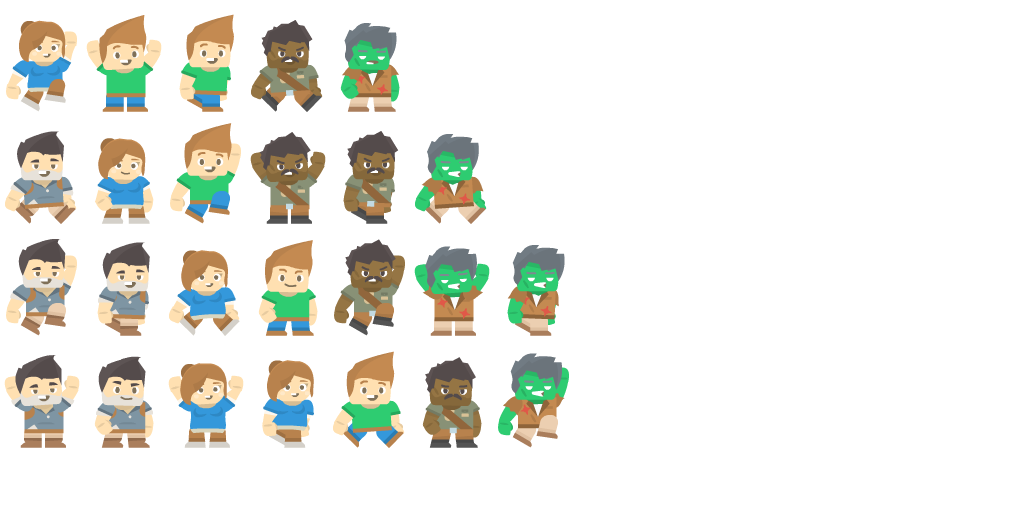
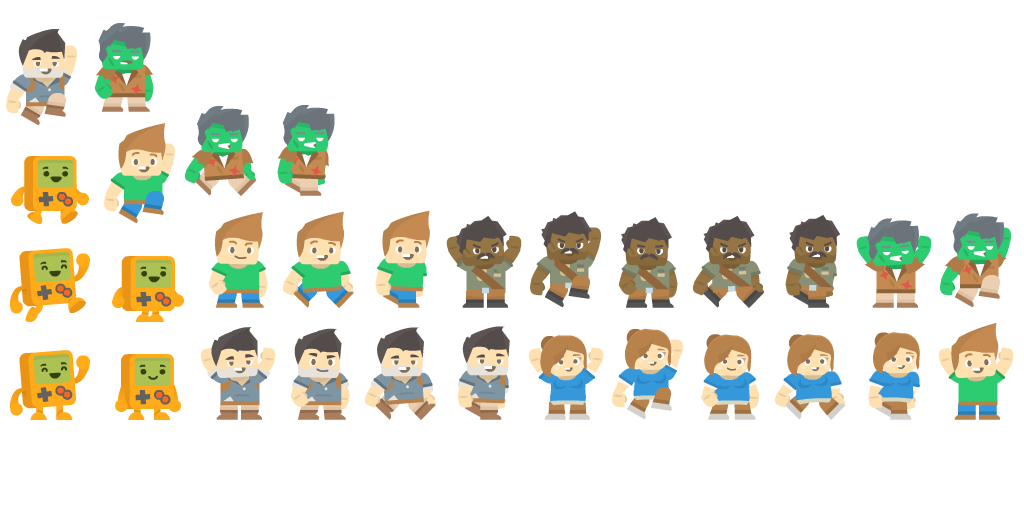
player can't play nextMap before finishing earlier one

diff --git a/core/src/radoslaw/slowinski/ares/controls/LevelDialog.java b/core/src/radoslaw/slowinski/ares/controls/LevelDialog.java
@@ -2,7 +2,10 @@ package radoslaw.slowinski.ares.controls;
 
 import com.badlogic.gdx.graphics.Color;
 import com.badlogic.gdx.scenes.scene2d.InputEvent;
-import com.badlogic.gdx.scenes.scene2d.ui.*;
+import com.badlogic.gdx.scenes.scene2d.ui.Image;
+import com.badlogic.gdx.scenes.scene2d.ui.Label;
+import com.badlogic.gdx.scenes.scene2d.ui.Stack;
+import com.badlogic.gdx.scenes.scene2d.ui.Table;
 import com.badlogic.gdx.scenes.scene2d.utils.ClickListener;
 import radoslaw.slowinski.ares.RushGame;
 import radoslaw.slowinski.ares.handlers.AssetHandler;
@@ -17,10 +20,13 @@ public class LevelDialog {
     private RushGame myGame;
     private Stack stack;
     private MapLevels mapLevel;
+    private boolean canBePlayed;
+    private BadgeTypes badgeType;
 
-    public LevelDialog(RushGame myGame,MapLevels mapLevel) {
+    public LevelDialog(RushGame myGame, MapLevels mapLevel, boolean canBePlayed) {
         this.myGame = myGame;
         this.mapLevel = mapLevel;
+        this.canBePlayed = canBePlayed;
         init();
     }
 
@@ -30,7 +36,7 @@ public class LevelDialog {
 
     private void init() {
         stack = new Stack();
-        stack.setSize(100,50);
+        stack.setSize(100, 50);
         stack.add(getBackground());
         stack.add(getForeground());
         stack.addListener(getListener());
@@ -39,30 +45,38 @@ public class LevelDialog {
     private Table getForeground() {
         Table layer = new Table();
         layer.center().top();
-        layer.setSize(100,30);
-        layer.add(getBagde()).row();
-        layer.add(getLabel(mapLevel.getMapLevel(),Color.FIREBRICK));
+        layer.setSize(100, 30);
+        layer.add(getBadge()).row();
+        if (!canBePlayed) {
+         Image key = new Image(AssetHandler.instance.items.key);
+         key.setScale(0.7f);
+         key.setOrigin(key.getWidth()/2,key.getHeight());
+            layer.add(key);
+        }
+        else
+            layer.add(getLabel(mapLevel.getMapLevel(), Color.FIREBRICK));
         return layer;
     }
 
-    private Image getBagde() {
+    private Image getBadge() {
         Image img;
-        if(UserDataHandler.instance.getBadgeType(mapLevel).equals(BadgeTypes.GOLD)){
+        if (UserDataHandler.instance.getBadgeType(mapLevel).equals(BadgeTypes.GOLD)) {
             img = new Image(AssetHandler.instance.items.goldStar);
-        }
-        else if(UserDataHandler.instance.getBadgeType(mapLevel).equals(BadgeTypes.SILVER)){
+            badgeType = BadgeTypes.GOLD;
+        } else if (UserDataHandler.instance.getBadgeType(mapLevel).equals(BadgeTypes.SILVER)) {
             img = new Image(AssetHandler.instance.items.silverStar);
-        }
-        else if(UserDataHandler.instance.getBadgeType(mapLevel).equals(BadgeTypes.BRONZE)){
+            badgeType = BadgeTypes.SILVER;
+        } else if (UserDataHandler.instance.getBadgeType(mapLevel).equals(BadgeTypes.BRONZE)) {
             img = new Image(AssetHandler.instance.items.bronzeStar);
-        }
-        else {
+            badgeType = BadgeTypes.BRONZE;
+        } else {
             img = new Image(AssetHandler.instance.items.bronzeStar);
             img.setVisible(false);
+            badgeType = BadgeTypes.NONE;
         }
 
         img.setScale(0.5f);
-        img.setOrigin(img.getWidth()/2,img.getHeight()/2);
+        img.setOrigin(img.getWidth() / 2, img.getHeight() / 2);
         return img;
     }
 
@@ -72,10 +86,12 @@ public class LevelDialog {
     }
 
     private ClickListener getListener() {
-        return new ClickListener(){
+        return new ClickListener() {
             @Override
             public boolean touchDown(InputEvent event, float x, float y, int pointer, int button) {
-                myGame.setGameScreen(mapLevel);
+                if (canBePlayed) {
+                    myGame.setGameScreen(mapLevel);
+                }
                 return super.touchDown(event, x, y, pointer, button);
             }
         };
@@ -93,5 +109,9 @@ public class LevelDialog {
         Image emptyColumn = new Image(AssetHandler.instance.blocks.blue);
         emptyColumn.setVisible(false);
         return emptyColumn;
+    }
+
+    public BadgeTypes getBadgeType() {
+        return badgeType;
     }
 }

diff --git a/core/src/radoslaw/slowinski/ares/screens/menu/SelectLevelScreen.java b/core/src/radoslaw/slowinski/ares/screens/menu/SelectLevelScreen.java
@@ -2,11 +2,15 @@ package radoslaw.slowinski.ares.screens.menu;
 
 import com.badlogic.gdx.Gdx;
 import com.badlogic.gdx.scenes.scene2d.Stage;
-import com.badlogic.gdx.scenes.scene2d.ui.Table;
+import com.badlogic.gdx.scenes.scene2d.ui.*;
 import com.badlogic.gdx.utils.viewport.StretchViewport;
 import radoslaw.slowinski.ares.RushGame;
+import radoslaw.slowinski.ares.controls.BackToMenuButton;
 import radoslaw.slowinski.ares.controls.LevelDialog;
+import radoslaw.slowinski.ares.controls.VScrollPane;
+import radoslaw.slowinski.ares.handlers.AssetHandler;
 import radoslaw.slowinski.ares.screens.AbstractGameScreen;
+import radoslaw.slowinski.ares.utils.BadgeTypes;
 import radoslaw.slowinski.ares.utils.Constant;
 import radoslaw.slowinski.ares.utils.GamePreferences;
 import radoslaw.slowinski.ares.utils.MapLevels;
@@ -17,11 +21,19 @@ import radoslaw.slowinski.ares.utils.MapLevels;
 public class SelectLevelScreen extends AbstractGameScreen {
     private RushGame myGame;
     private Stage stage;
+    private BackToMenuButton backButton;
+    private LevelDialog[] levels;
 
-    public SelectLevelScreen(RushGame myGame){
+    public SelectLevelScreen(RushGame myGame) {
         super();
         this.myGame = myGame;
+        init();
     }
+
+    private void init() {
+        backButton = new BackToMenuButton(myGame);
+    }
+
 
     @Override
     public void render(float delta) {
@@ -32,21 +44,58 @@ public class SelectLevelScreen extends AbstractGameScreen {
     }
 
     private void rebuildStage() {
+
+        Stack stack = new Stack(getLevelDialogs(), getButtonContainer());
+        stack.setSize(Constant.GAME_WIDTH, Constant.GAME_HEIGHT);
+
+        stage.addActor(stack);
+    }
+
+    private Container<Button> getButtonContainer() {
+        Container<Button> backContainer = new Container<Button>(backButton.getButton());
+        backContainer.top().right();
+        return backContainer;
+    }
+
+    private VScrollPane getLevelDialogs() {
+        return new VScrollPane(getLevelTable());
+    }
+
+    private Table getLevelTable() {
+        setLevels();
         Table layer = new Table();
-        layer.setSize(Constant.GAME_WIDTH,Constant.GAME_HEIGHT);
-        layer.top().center();
+        layer.setSize(Constant.GAME_WIDTH, Constant.GAME_HEIGHT);
 
-        layer.add(new LevelDialog(myGame,MapLevels.FREE_RUN).getStack()).row();
-        layer.add(new LevelDialog(myGame,MapLevels.LEVEL1).getStack());
-        layer.add(new LevelDialog(myGame,MapLevels.LEVEL2).getStack()).row();
-        layer.add(new LevelDialog(myGame,MapLevels.LEVEL3).getStack());
-        layer.add(new LevelDialog(myGame,MapLevels.LEVEL4).getStack());
-        layer.add(new LevelDialog(myGame,MapLevels.LEVEL5).getStack()).row();
-        layer.add(new LevelDialog(myGame,MapLevels.LEVEL6).getStack());
-        layer.add(new LevelDialog(myGame,MapLevels.LEVEL7).getStack());
-        layer.add(new LevelDialog(myGame,MapLevels.LEVEL8).getStack()).row();
+        layer.add(getEmptyColumn());
+        layer.add(getEmptyColumn());
+        layer.add(levels[1].getStack()).row();
+        layer.add(getEmptyColumn()).row();
+        for (int i = 3; i < levels.length; i++) {
+            if((i-3)%5 == 0)
+                layer.row();
+            layer.add(levels[i].getStack());
+        }
 
-        stage.addActor(layer);
+        return layer;
+    }
+
+    private Image getEmptyColumn() {
+        Image img = new Image(AssetHandler.instance.items.bronzeStar);
+        img.setVisible(false);
+        return img;
+    }
+
+    private void setLevels() {
+        levels = new LevelDialog[MapLevels.values().length];
+        levels[1] = new LevelDialog(myGame, MapLevels.values()[1], true);
+        levels[2] = new LevelDialog(myGame,MapLevels.values()[2],true);
+        for (int i = 3; i < levels.length; i++) {
+            if (levels[i - 1].getBadgeType().equals(BadgeTypes.NONE)) {
+                levels[i] = new LevelDialog(myGame, MapLevels.values()[i], false);
+            } else {
+                levels[i] = new LevelDialog(myGame, MapLevels.values()[i], true);
+            }
+        }
     }
 
     @Override

diff --git a/core/src/radoslaw/slowinski/ares/screens/gameplay/HUD.java b/core/src/radoslaw/slowinski/ares/screens/gameplay/HUD.java
@@ -2,14 +2,17 @@ package radoslaw.slowinski.ares.screens.gameplay;
 
 import com.badlogic.gdx.graphics.OrthographicCamera;
 import com.badlogic.gdx.graphics.g2d.SpriteBatch;
+import com.badlogic.gdx.graphics.g2d.TextureRegion;
 import com.badlogic.gdx.graphics.glutils.ShapeRenderer;
+import com.badlogic.gdx.scenes.scene2d.Stage;
+import com.badlogic.gdx.scenes.scene2d.ui.Image;
 import radoslaw.slowinski.ares.RushGame;
 import radoslaw.slowinski.ares.handlers.AssetHandler;
 import radoslaw.slowinski.ares.handlers.BlockHandler;
 import radoslaw.slowinski.ares.handlers.ScoreHandler;
 import radoslaw.slowinski.ares.utils.Constant;
-import radoslaw.slowinski.ares.utils.MapLoader;
 import radoslaw.slowinski.ares.utils.MapLevels;
+import radoslaw.slowinski.ares.utils.MapLoader;
 
 /**
  * Created by ares on 16/08/17.
@@ -19,6 +22,7 @@ public class HUD extends OrthographicCamera {
     public static HUD instance = new HUD();
     private RushGame myGame;
     private ShapeRenderer shapeRenderer;
+    private Stage stage;
 
     private HUD() {
         super();
@@ -63,12 +67,12 @@ public class HUD extends OrthographicCamera {
                 0, 0, 50, 30, 1, 1, 0);
     }
 
-    public void drawBlockColor(){
+    public void drawBlockColor() {
         shapeRenderer.setProjectionMatrix(this.combined);
         shapeRenderer.begin();
         shapeRenderer.setColor(BlockHandler.instance.getCurrentBlockType().getColor());
-        shapeRenderer.rect(0.25f,0.25f,
-                Constant.GAME_WIDTH-0.3f,Constant.GAME_HEIGHT-0.7f);
+        shapeRenderer.rect(0.25f, 0.25f,
+                Constant.GAME_WIDTH - 0.3f, Constant.GAME_HEIGHT - 0.7f);
         shapeRenderer.end();
     }
 

diff --git a/core/src/radoslaw/slowinski/ares/controls/VScrollPane.java b/core/src/radoslaw/slowinski/ares/controls/VScrollPane.java
@@ -1,0 +1,25 @@
+package radoslaw.slowinski.ares.controls;
+
+import com.badlogic.gdx.scenes.scene2d.Actor;
+import com.badlogic.gdx.scenes.scene2d.ui.ScrollPane;
+import radoslaw.slowinski.ares.handlers.AssetHandler;
+import radoslaw.slowinski.ares.utils.Constant;
+
+/**
+ * Created by ares on 26/08/17.
+ */
+public class VScrollPane extends ScrollPane{
+    private ScrollPane.ScrollPaneStyle style;
+
+    public VScrollPane(Actor actor) {
+        super(actor);
+        init();
+    }
+
+    private void init() {
+        style = new ScrollPane.ScrollPaneStyle();
+        style.vScrollKnob = AssetHandler.instance.skin.menuUI.getDrawable("knob_05");
+        setSize(Constant.GAME_WIDTH, Constant.GAME_HEIGHT);
+
+    }
+}

diff --git a/core/src/radoslaw/slowinski/ares/handlers/AssetHandler.java b/core/src/radoslaw/slowinski/ares/handlers/AssetHandler.java
@@ -230,12 +230,14 @@ public class AssetHandler implements Disposable, AssetErrorListener {
         public final TextureRegion bronzeStar;
         public final TextureRegion silverStar;
         public final TextureRegion goldStar;
+        public final TextureRegion key;
 
         AssetItems() {
             tapTick = itemsAtlas.findRegion("tapTick");
             bronzeStar = itemsAtlas.findRegion("starBronze");
             silverStar = itemsAtlas.findRegion("starSilver");
             goldStar = itemsAtlas.findRegion("starGold");
+            key = itemsAtlas.findRegion("key");
         }
     }
 }

diff --git a/desktop/src/radoslaw/slowinski/ares/desktop/DesktopLauncher.java b/desktop/src/radoslaw/slowinski/ares/desktop/DesktopLauncher.java
@@ -25,9 +25,9 @@ public class DesktopLauncher {
         settings.duplicatePadding = false;
         settings.debug = false;
         TexturePacker.process(settings,
-                "assets-raw/players",
-                "images/players/",
-                "playerSkins.pack");
+                "assets-raw/items",
+                "images/items/",
+                "items.pack");
     }
 
 }

diff --git a/core/src/radoslaw/slowinski/ares/gameplay/WorldController.java b/core/src/radoslaw/slowinski/ares/gameplay/WorldController.java
@@ -70,7 +70,7 @@ public class WorldController extends InputAdapter implements Disposable {
         BadgeIcon badge = UserDataHandler.instance.getBadge(mapTitle);
         if(badge == null) return;
 
-        badge.setScore(ScoreHandler.instance.getCoins(),true);
+        badge.setScore(ScoreHandler.instance.getCurrentLevelCoins(),true);
     }
 
     private void handlePlayerBeingDead() {

diff --git a/core/src/radoslaw/slowinski/ares/utils/MapLevels.java b/core/src/radoslaw/slowinski/ares/utils/MapLevels.java
@@ -13,7 +13,9 @@ public enum MapLevels {
     LEVEL5("level5", "5",10),
     LEVEL6("level6", "6",10),
     LEVEL7("level7", "7",10),
-    LEVEL8("level8", "8",10);
+    LEVEL8("level8", "8",10),
+    LEVEL9("level9", "9",10),
+    LEVEL10("level10", "10",10);
 
     private String mapName;
 

diff --git a/core/src/radoslaw/slowinski/ares/utils/BadgeTypes.java b/core/src/radoslaw/slowinski/ares/utils/BadgeTypes.java
@@ -7,6 +7,6 @@ public enum BadgeTypes {
     NONE,
     BRONZE,
     SILVER,
-    GOLD
+    GOLD,
 
 }
